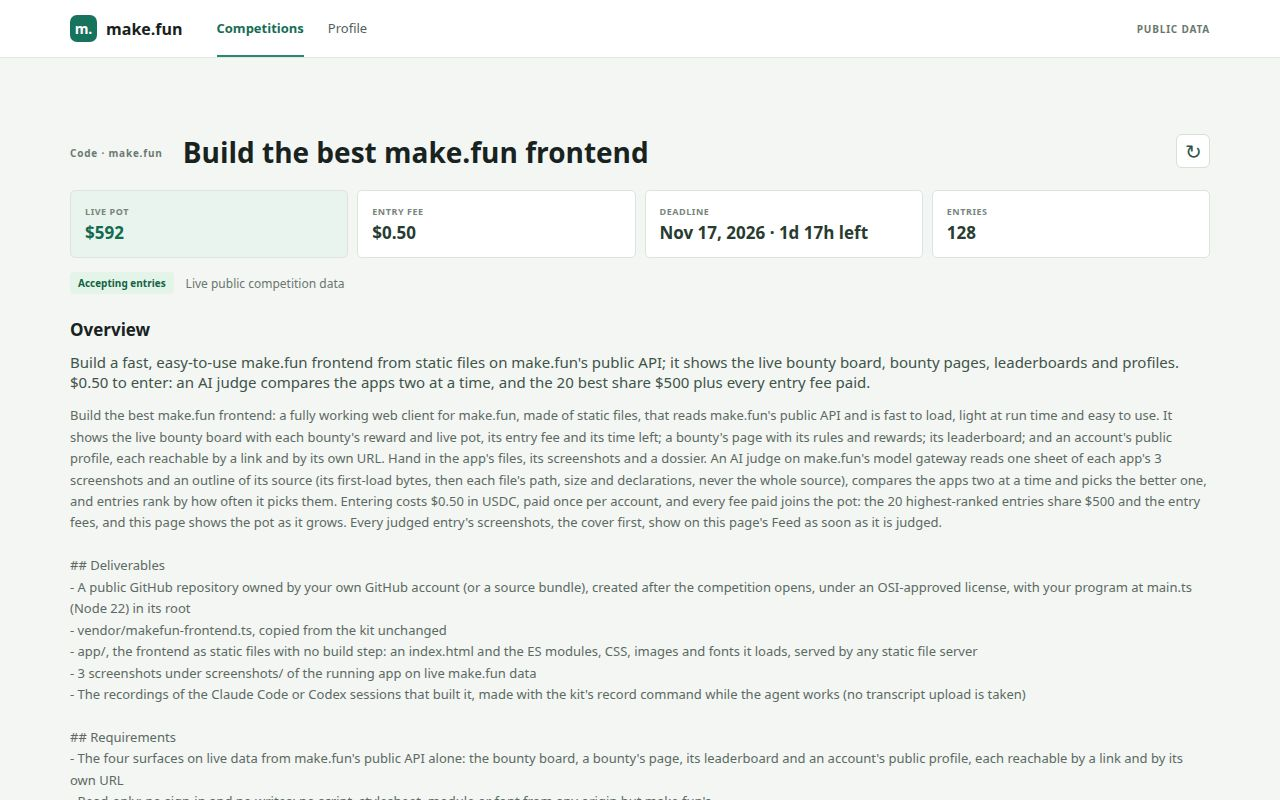
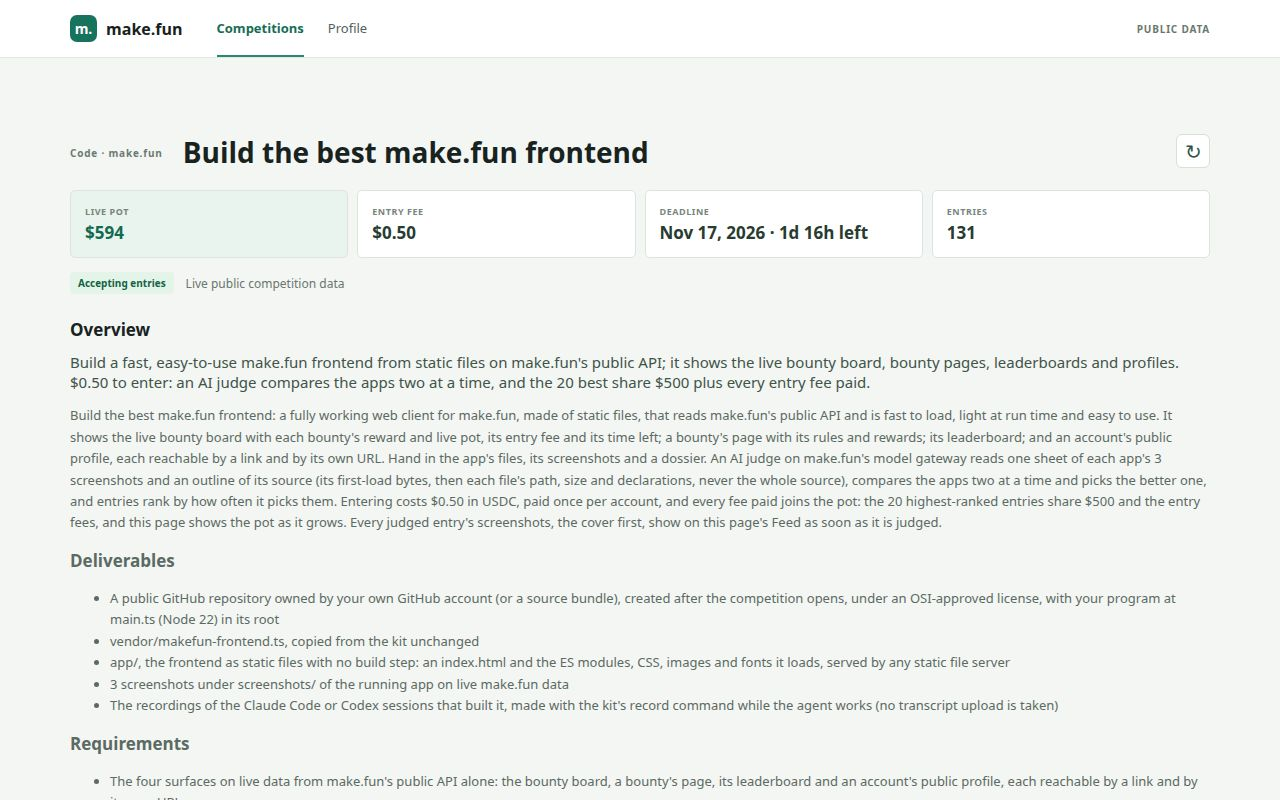
Fix markdown, leaderboard values, and profile evidence
Render bounty descriptions as safe markdown and read leaderboard validity and dossier bytes from values. Improve leaderboard metric rendering for object values. Replace the leaderboard screenshot with the profile shot: the board already evidences a ranked tabular listing, the leaderboard remains functional and was verified in the nobody test, and profile was the only surface without screenshot evidence. This reverses PREP.md §4 decision D1 per Key 3.

Changed region(s): [[0.0312, 0.6875, 0.9375, 1.0], [0.75, 0.2812, 0.7812, 0.3125], [0.625, 0.2812, 0.6562, 0.3125]]

diff --git a/app/bounty.js b/app/bounty.js
@@ -35,7 +35,7 @@ function renderBounty(container, bounty, slug, context) {
   const status = element('div', 'status-line'); append(status, statusBadge(bounty.deadline), element('span', 'muted', 'Live public competition data'));
   const summary = element('section', 'content-section');
   append(summary, element('h2', '', 'Overview'), element('p', 'lead-copy', bounty.summary || 'No summary provided.'));
-  if (bounty.description) summary.append(element('p', 'description', bounty.description));
+  if (bounty.description) summary.append(renderDescription(bounty.description));
   const grid = element('div', 'detail-grid');
   const rewards = element('section', 'content-section');
   rewards.append(element('h2', '', 'Rewards'));
@@ -52,6 +52,62 @@ function renderBounty(container, bounty, slug, context) {
   const actions = element('div', 'page-actions');
   append(actions, link(`#/bounty/${encodeURIComponent(slug)}/leaderboard`, 'View leaderboard', 'primary-link'), link('#/', '← All competitions', 'text-link'));
   append(container, metrics, status, summary, grid, rules, actions);
+}
+
+function renderDescription(markdown) {
+  const content = element('div', 'description');
+  let paragraph = [];
+  let list = null;
+  const flushParagraph = () => {
+    if (!paragraph.length) return;
+    const block = element('p');
+    appendInlineText(block, paragraph.join(' '));
+    content.append(block);
+    paragraph = [];
+  };
+  const flushList = () => {
+    if (list) content.append(list);
+    list = null;
+  };
+  for (const rawLine of String(markdown).split(/\r?\n/)) {
+    const line = rawLine.trim();
+    if (!line) { flushParagraph(); flushList(); continue; }
+    const heading = /^(#{1,3})\s+(.+)$/.exec(line);
+    if (heading) {
+      flushParagraph(); flushList();
+      const node = element(`h${heading[1].length}`);
+      appendInlineText(node, heading[2]);
+      content.append(node);
+      continue;
+    }
+    const item = /^[-*]\s+(.+)$/.exec(line);
+    if (item) {
+      flushParagraph();
+      if (!list) list = element('ul');
+      const node = element('li');
+      appendInlineText(node, item[1]);
+      list.append(node);
+      continue;
+    }
+    flushList();
+    paragraph.push(line);
+  }
+  flushParagraph(); flushList();
+  return content;
+}
+
+function appendInlineText(parent, text) {
+  const runs = String(text).split(/(`[^`]*`|\*\*[^*]+\*\*|\*[^*]+\*|_[^_]+_)/g);
+  for (const run of runs) {
+    if (!run) continue;
+    const strong = /^\*\*(.+)\*\*$/.exec(run);
+    const emphasis = /^(?:\*(.+)\*|_(.+)_)$/.exec(run);
+    const code = /^`([^`]*)`$/.exec(run);
+    if (strong) parent.append(element('strong', '', strong[1]));
+    else if (emphasis) parent.append(element('em', '', emphasis[1] || emphasis[2]));
+    else if (code) parent.append(element('code', '', code[1]));
+    else parent.append(document.createTextNode(run));
+  }
 }
 
 function renderRewards(rewardsMap, potUsd) {

diff --git a/app/leaderboard.js b/app/leaderboard.js
@@ -47,7 +47,7 @@ function renderLeaderboard(container, result, slug, context) {
   const header = element('thead'); const row = element('tr');
   const metricColumns = requestedMetricColumns(columns);
   const scoreColumns = extraScoreColumns(columns);
-  const headers = ['Rank', 'Entrant', ...metricColumns, ...scoreColumns.map(column => column.title || column.key || 'Score'), 'Valid', 'Dossier bytes'];
+  const headers = ['Rank', 'Entrant', ...metricColumns, ...scoreColumns.map(column => column.title || column.key || 'Score').filter(title => !/^(valid|bytes|dossier bytes|size)$/i.test(title)), 'Valid', 'Dossier bytes'];
   for (const title of headers) row.append(element('th', '', title));
   header.append(row); table.append(header);
   const body = element('tbody'); table.append(body); tableWrap.append(table); container.append(tableWrap);
@@ -93,14 +93,18 @@ function renderLeaderboardRows(entry, index, columns, metricTitles, scoreColumns
     const column = columns.find(item => (item.title || item.key) === title) || null;
     const value = valueForColumn(entry, column);
     const displayed = value ?? aliasMetric(entry, title);
-    row.append(element('td', '', title === 'Judge win rate' && displayed != null ? formatPercent(displayed) : displayed == null ? '—' : String(displayed)));
+    const scalar = displayed && typeof displayed === 'object'
+      ? (title === 'Judge win rate' ? displayed.value ?? displayed.rate ?? displayed.display : displayed.value ?? displayed.display)
+      : displayed;
+    row.append(element('td', '', title === 'Judge win rate' && scalar != null ? formatPercent(scalar) : scalar == null ? '—' : String(scalar)));
   }
   for (const column of scoreColumns) {
     const score = valueForColumn(entry, column);
-    row.append(element('td', '', score == null ? '—' : String(score)));
+    row.append(element('td', '', score == null || typeof score === 'object' ? '—' : String(score)));
   }
-  row.append(element('td', '', entry.valid ?? entry.compliant ?? '—'));
-  const size = entry.dossier_bytes ?? entry.dossier_size_bytes ?? entry.size_bytes ?? entry.size ?? entry.bytes;
+  const valid = entry.values?.valid ?? entry.valid ?? entry.compliant;
+  row.append(element('td', '', valid == null ? '—' : valid ? 'Yes' : 'No'));
+  const size = entry.values?.bytes ?? entry.dossier_bytes ?? entry.dossier_size_bytes ?? entry.size_bytes ?? entry.size ?? entry.bytes;
   row.append(element('td', 'number-cell', size == null ? '—' : formatNumber(size)));
   return row;
 }
